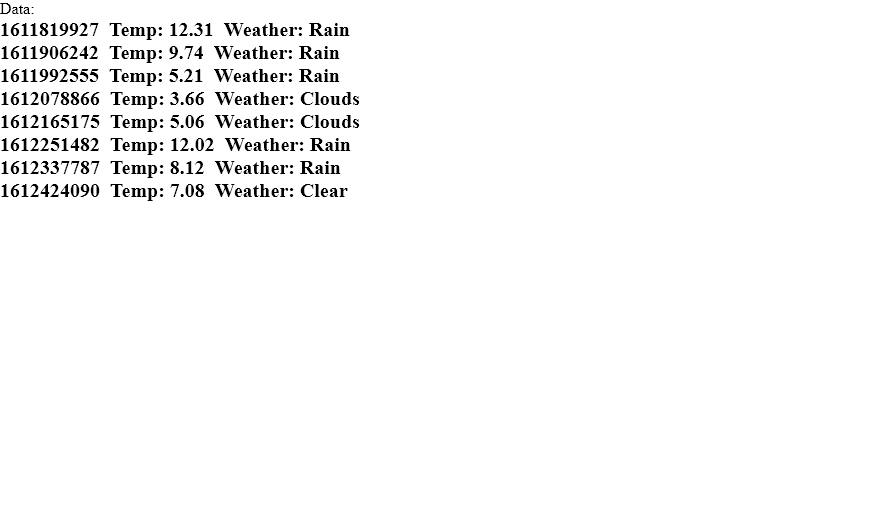
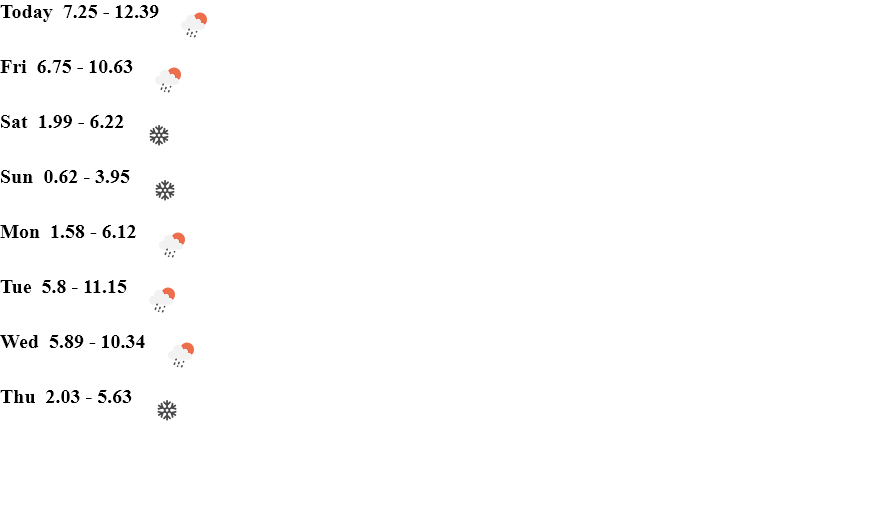
chore: 7 days forecast

diff --git a/src/Components/Forecast.js b/src/Components/Forecast.js
@@ -1,0 +1,46 @@
+import React, { useEffect, useState } from 'react';
+import format from 'date-fns/format';
+import axios from 'axios';
+import '../styles/forecast.scss';
+
+const Forecast = () => {
+  const [data, setData] = useState(null);
+
+  const getShortDayName = (date) => {
+    const isToday = new Date(date * 1000).getDate() === new Date().getDate();
+    if (isToday) return 'Today';
+    return format(new Date(date * 1000), 'E');
+  };
+
+  useEffect(() => {
+    axios.get('http://api.openweathermap.org/data/2.5/onecall?lat=51.584870&lon=-0.280060&exclude=minutely&appid=811ade084421edfd4e2b8331ba00e291&units=metric')
+      .then((res) => {
+        setData(res.data);
+      });
+  }, []);
+
+  const dailyForecast = data && data.daily.slice(0, 7);
+  return (
+    <div className="forecast">
+      {
+      dailyForecast && dailyForecast.map((day) => (
+        <div key={day.dt} className="forecast__day">
+          <div className="day__left-section">
+            { getShortDayName(day.dt) }
+          </div>
+          <div className="day__right-section">
+            <span style={{ marginLeft: '10px' }}>
+              <span>{day.temp.min.toFixed()}°</span> - <span>{day.temp.max.toFixed()}°</span>
+            </span>
+            <span style={{ marginLeft: '10px' }}>
+              <img src={`http://openweathermap.org/img/wn/${day.weather[0].icon}@2x.png`} alt={day.weather[0].icon} style={{ width: '30px', height: '30px' }} />
+            </span>
+          </div>
+        </div>
+      ))
+}
+    </div>
+  );
+};
+
+export default Forecast;

diff --git a/src/Components/App.js b/src/Components/App.js
@@ -1,42 +1,11 @@
-import React, { useEffect, useState } from 'react';
-import axios from 'axios';
+import React from 'react';
 import './App.scss';
+import Forecast from './Forecast';
 
-const DemoComponent = () => {
-  const [data, setData] = useState(null);
-  useEffect(() => {
-    axios.get('http://api.openweathermap.org/data/2.5/onecall?lat=51.584870&lon=-0.280060&exclude=minutely&appid=811ade084421edfd4e2b8331ba00e291&units=metric')
-      .then((res) => {
-        console.log('🚀 ~ file: App.js ~ line 9 ~ useEffect ~ res', res);
-        setData(res.data);
-      });
-  }, []);
-
-  return (
-    <div className="rootContainer">
-      Data:
-      {/* {data && JSON.stringify(data)} */}
-      {
-        data && data.daily.map((day) => (
-          <div key={day.dt} style={{ display: 'flex', flexDirection: 'row', fontSize: '20px', fontWeight: 'bold' }}>
-            <span>
-              { (day.sunrise) }
-            </span>
-            <span style={{ marginLeft: '10px' }}>
-              Temp:
-              {' '}
-              { day.temp.day }
-            </span>
-            <span style={{ marginLeft: '10px' }}>
-              Weather:
-              {' '}
-              { day.weather[0].main }
-            </span>
-          </div>
-        ))
-                  }
-    </div>
-  );
-};
+const DemoComponent = () => (
+  <div className="rootContainer">
+    <Forecast />
+  </div>
+);
 
 export default DemoComponent;

diff --git a/.eslintrc.js b/.eslintrc.js
@@ -19,6 +19,7 @@ module.exports = {
     node: true,
   },
   rules: {
+    'react/jsx-one-expression-per-line': 'off',
     'consistent-return': 'off',
     'no-await-in-loop': 'off',
     'import/no-extraneous-dependencies': 'off',

diff --git a/src/styles/forecast.scss b/src/styles/forecast.scss
@@ -1,0 +1,9 @@
+.forecast {
+    max-width: 260px;
+    .forecast__day {
+        font-weight: bold;
+        font-size: 30px;
+        display: flex;
+        justify-content: space-between;
+    }
+}
